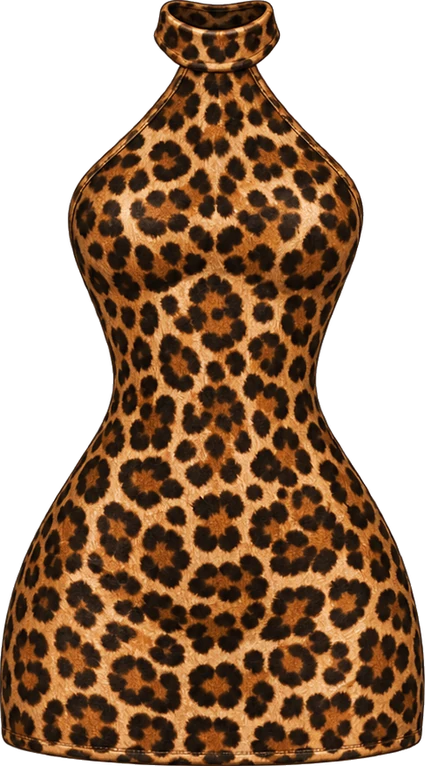
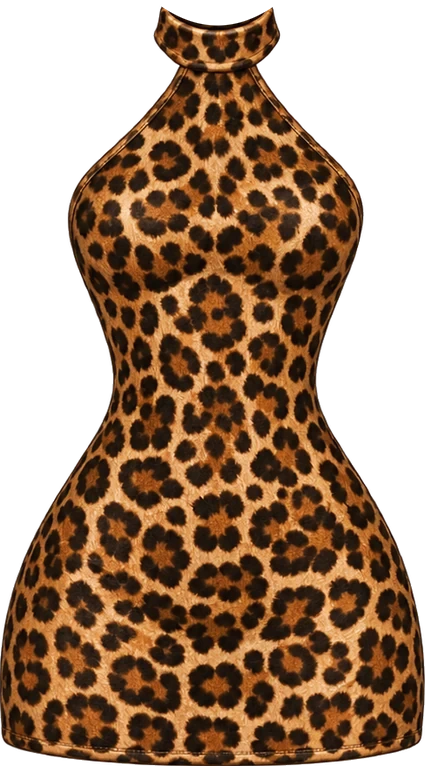
closet: gola dos vestidos de oncinha

Changed region(s): [[0.3671, 0.0, 0.6424, 0.0601]]

diff --git a/config/bonequinha-posicoes.ts b/config/bonequinha-posicoes.ts
@@ -118,7 +118,7 @@ export const EIXO: Record<string, [number, number]> = {
 };
 
 // peças que amarram no pescoço: o pescoço da boneca fica na frente das alças
-export const PESCOCO = ["c04", "c05", "c14", "c15", "v02", "v04"];
+export const PESCOCO = ["c04", "c05", "c14", "c15"];
 
 // cabelos compridos: o corpo fica na frente deles (o cabelo cai por trás dos ombros e braços)
 export const CABELO_ATRAS = ["h1_0", "h1_1", "h2_0", "h2_1", "h2_2", "h2_3", "h3_0", "h3_2", "h3_3", "h4_2"];
